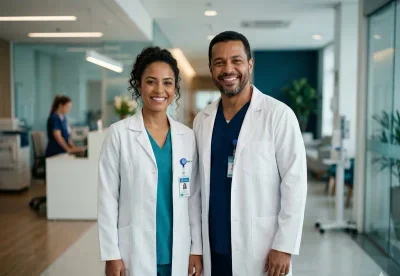
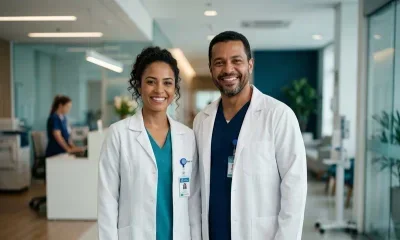
fix: cortar mais bottom hero-doctors (marca Gemini), restaurar height=280

diff --git a/src/RevivazPreview.tsx b/src/RevivazPreview.tsx
@@ -181,7 +181,7 @@ function HeroCanvas({ heroLines, heroIdx, openAgendar, bp = "desktop" }: { heroL
               fetchPriority="high"
               decoding="async"
               width="400"
-              height="276"
+              height="280"
               style={{ width: "100%", height: 280, objectFit: "cover", objectPosition: "center top", display: "block" }}
             />
             {/* overlay teal sutil */}
